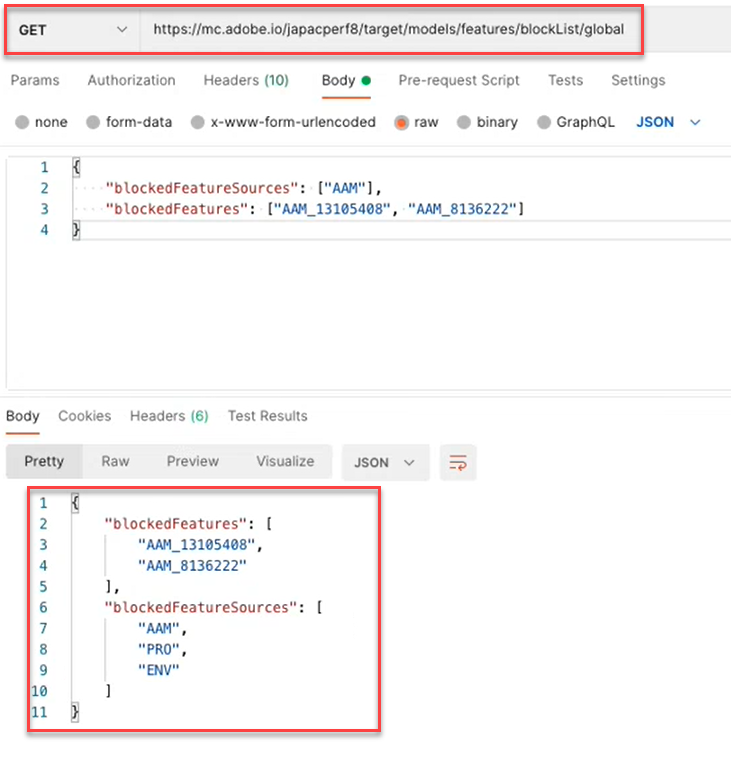
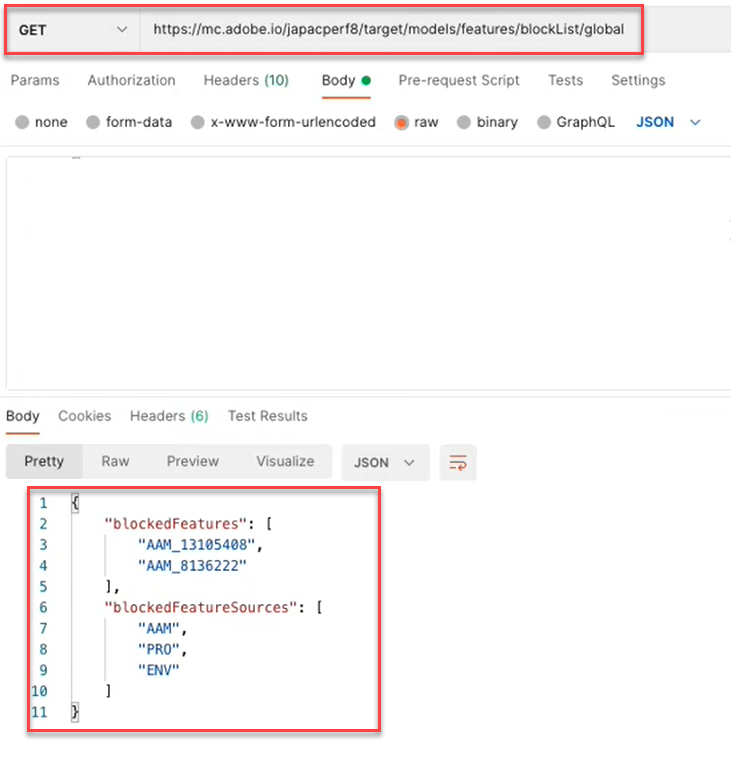
Models API usage guideline updates

diff --git a/src/pages/before-administer/models-api.md b/src/pages/before-administer/models-api.md
@@ -32,15 +32,15 @@ To use the Models API, you must configure authentication using the [Adobe Develo
 
 How to manage blocklists
 
-**Step 1:** View list of features for an activity
+[**Step 1:**](#step1) View list of features for an activity
 
-**Step 2:** Check the blocklist of the activity
+[**Step 2:**](#step2) Check the blocklist of the activity
 
-**Step 3:** Add features to the blocklist of the activity
+[**Step 3:**](#step3) Add features to the blocklist of the activity
 
-**Step 4:** (Optional) Unblock
+[**Step 4:**](#step4) (Optional) Unblock
 
-**Step 5:** (Optional) Manage the global blocklist
+[**Step 5:**](#step5) (Optional) Manage the global blocklist
 
 
 ## Step 1: View list of features for an activity {#step1}
@@ -149,24 +149,24 @@ To add features to the blocklist, change the request from GET to PUT, and modify
 * Populate `blockedFeatures` with values identified from `internalName`. See [Step 1](#step1).
 * Populate `blockedFeatureSources` with values from the table below.
 
-Note that `blockedFeatureSources` are sources for features. For the purposes of blocklisting, they serve as groups or categories of features, which enable users to block entire sets of features at once. The values of `blockedFeatureSources` match the first characters of a feature's identifier (`blockedFeatures` or `internalName` values); therefore they may also be considered "feature prefixes."
+Note that `blockedFeatureSources` indicates where a feature came from. For the purposes of blocklisting, they serve as groups or categories of features, which enable users to block entire sets of features at once. The values of `blockedFeatureSources` match the first characters of a feature's identifier (`blockedFeatures` or `internalName` values); therefore they may also be considered "feature prefixes."
 
-**Table of `blockedFeatureSources` values:**
+### Table of `blockedFeatureSources` values {#table}
 
 |Prefix|Description|
 | --- | --- |
-|BOX||
-|URL||
-|SEG||
-|AAM|Adobe Audience Manager|
-|CRS||
-|UPA||
-|IAC||
-|CUMULATIVE_ACTION||
-
-**QUESTION A: Please provide list of descriptions**
-
-**QUESTION B: What is the "SES" prefix, which was shown in demos?"**
+|BOX|Mbox parameter|
+|URL|Custom - URL Parameter|
+|ENV|Environment|
+|SES|Visitor Profile|
+|GEO|Geo location|
+|PRO|Custom - Profile|
+|SEG|Custom - Reporting Segment|
+|AAM|Custom - Experience Cloud Segment|
+|MOB|Mobile|
+|CRS|Custom - Customer Attributes|
+|UPA|Custom - RT-CDP Profile Attribute|
+|IAC|Visitor Interest Areas||
 
 <CodeBlock slots="heading, code" repeat="2" languages="JSON, JSON" />
 
@@ -196,11 +196,9 @@ PUT https://mc.adobe.io/<tenant>/target/models/features/blockList/<campaignId>
 
 ````
 
-In the example shown here, the user is blocking two features, `SES_PREVIOUS_VISIT_COUNT` and `SES_TOTAL_SESSIONS`, which they previously identified by querying the full list of features for the activity whose Activity ID is 260480, as described in [Step 1](#step1). They are also blocking all features whose source is Adobe Audience Manager, achieved by blocking features with the prefix of "AAM."
+In the example shown here, the user is blocking two features, `SES_PREVIOUS_VISIT_COUNT` and `SES_TOTAL_SESSIONS`, which they previously identified by querying the full list of features for the activity whose Activity ID is 260480, as described in [Step 1](#step1). They are also blocking all features coming from Experience Cloud Segments, which is achieved by blocking features with the prefix of "AAM," as described in the [table](#table) above.
 
 ![Step 3](assets/models-api-step-3.png)
-
-**QUESTION C**: Will the Body of the Response of a blocklist request show the FULL list of blocked features, or will it only display the features you just blocked, within that specific PUT request?
 
 <InlineAlert variant="help" slots="text" />
 
@@ -208,7 +206,7 @@ Note that after blocklisting a feature, it is recommended that you verify the up
 
 ## Step 4: (Optional) Unblock {#step4}
 
-To unblock, clear the values from `blockedFeatureSources` or `blockedFeatures`.
+To unblock all blocklisted features, clear the values from `blockedFeatureSources` or `blockedFeatures`.
 
 <CodeBlock slots="heading, code" repeat="2" languages="JSON, JSON" />
 
@@ -233,7 +231,7 @@ PUT https://mc.adobe.io/<tenant>/target/models/features/blockList/<campaignId>
 
 ````
 
-In the example shown here, the user is clearing their blocklist for the activity whose Activity ID is 260840. Note that the response shows empty arrays for both blocked features and their sources—`blockedFeatureSources` and `blockedFeatures`, respectively.
+In the example shown here, the user is clearing their blocklist for the activity whose Activity ID is 260840. Note that the response confirms empty arrays for both blocked features and their sources—`blockedFeatureSources` and `blockedFeatures`, respectively.
 
 ![Step 4](assets/models-api-step-4.png)
 
@@ -245,11 +243,11 @@ As always, after modifying the blocklist, it is recommended that you perform [St
 
 Question: How can I delete some, but not all, of a blocklist?
 
-Answer: To remove a discrete subset of blocklisted features from a multi-feature blocklist, users can simply send the updated list in [the blocklist request](#step3), as opposed to clearing the entire blocklist and re-adding the desired features. In other words, send the updated feature list (as shown in [Step 3](#step3)), making sure to exclude the features you wish to "delete" from the blocklist.
+Answer: To remove a discrete subset of blocklisted features from a multi-feature blocklist, users can simply send the updated list of features you would like to block in [the blocklist request](#step3), as opposed to clearing the entire blocklist and re-adding the desired features. In other words, send the updated feature list (as shown in [Step 3](#step3)), making sure to exclude the features you wish to "delete" from the blocklist.
 
-## Step 5: (Optional) Manage the global blocklist
+## Step 5: (Optional) Manage the global blocklist {#step5}
 
-The examples above were all in the context of a single activity. You may also block features for all activities across a given client (tenant), instead of having to specify the blocklist for each activity. To perform a global blocklist, use the `/blockList/global` call, instead of `blockList/<campaignId>`.
+The examples above were all in the context of a single activity. You may also block features for all activities across a given client (tenant), instead of having to specify the blocklist for each activity individually. To perform a global blocklist, use the `/blockList/global` call, instead of `blockList/<campaignId>`.
 
 <CodeBlock slots="heading, code" repeat="2" languages="JSON, JSON" />
 
@@ -259,7 +257,7 @@ The examples above were all in the context of a single activity. You may also bl
 PUT https://mc.adobe.io/<tenant>/target/models/features/blockList/global
 
 {
-    "blockedFeatureSources": ["AAM"],
+    "blockedFeatureSources": ["AAM", "PRO", "ENV"],
     "blockedFeatures": ["AAM_FEATURE_1", "AAM_FEATURE_2"]
 }
 ```
@@ -273,22 +271,24 @@ PUT https://mc.adobe.io/<tenant>/target/models/features/blockList/global
         "AAM_FEATURE_2"
     ],
     "blockedFeatureSources": [
-        "AAM"
+        "AAM",
+        "PRO",
+        "ENV"
     ]
 }
 
 ````
 
-In the sample Request shown above, the user is blocking two features, `AAM_FEATURE_1` and `AAM_FEATURE_2`, for all activities in their Target account. This means that, regardless of the activity, `AAM_FEATURE_1` and `AAM_FEATURE_2` will not be included in the machine learning models for this account. Furthermore, the user is also globally blocking all features whose prefix is `AAM.`
+In the sample Request shown above, the user is blocking two features, "AAM_FEATURE_1" and "AAM_FEATURE_2," for all activities in their Target account. This means that, regardless of the activity, "AAM_FEATURE_1" and "AAM_FEATURE_2" will not be included in the machine learning models for this account. Furthermore, the user is also globally blocking all features whose prefix is "AAM," "PRO," or "ENV."
 
 <InlineAlert variant="info" slots="header, text"/>
 
 Question: Isn't the code sample above, redundant?
 
-Answer: Yes. It is redundant to block features with values beginning with "AAM," while also blocking all features whose source is "AAM." The net result is that all features sourced from AAM will be blocked. Therefore, if the goal is to block all features from Audience Manager, individually specifying certain features beginning with "AAM" is unnecessary, in the example above.
+Answer: Yes. It is redundant to block features with values beginning with "AAM," while also blocking all features whose source is "AAM." The net result is that all features sourced from AAM (Experience Cloud Segments) will be blocked. Therefore, if the goal is to block all features from Experience Cloud Segments, individually specifying certain features beginning with "AAM" is unnecessary, in the example above.
 
-Whether at the activity- or global-level, it is recommended that you verify your blocklist after modifying it, to ensure it contains the values you expect. Do this by changing the `PUT` to a `GET`.
+Final step: Whether at the activity- or global-level, it is recommended that you verify your blocklist after modifying it, to ensure it contains the values you expect. Do this by changing the `PUT` to a `GET`.
 
-In the sample Response shown below, we see that Target is not only blocking the two individual features, plus all features sourced from "AAM," as specified in the previous `PUT`, but it is also blocking features sourced from "PRO" and "ENV." Note this means that "PRO" and "ENV" features must have been blocked globally in a prior request.
+The sample response shown below indicates Target is blocking two individual features, plus all features sourced from "AAM," "PRO," and "ENV."
 
 ![Step 5](assets/models-api-step-5.png)
